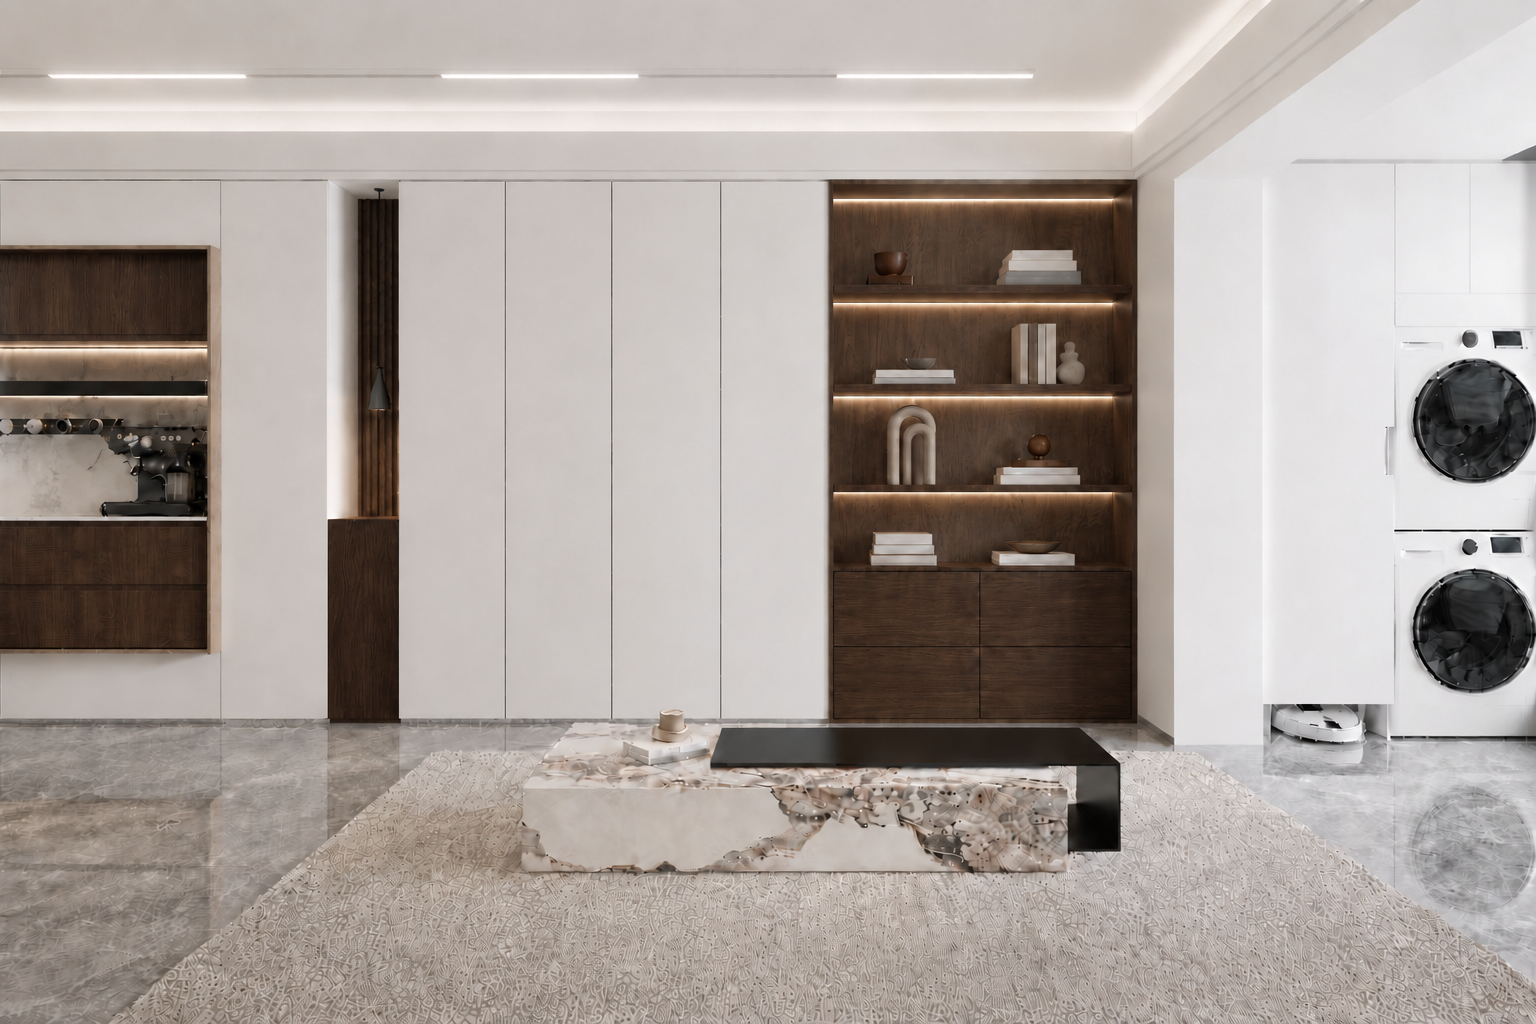
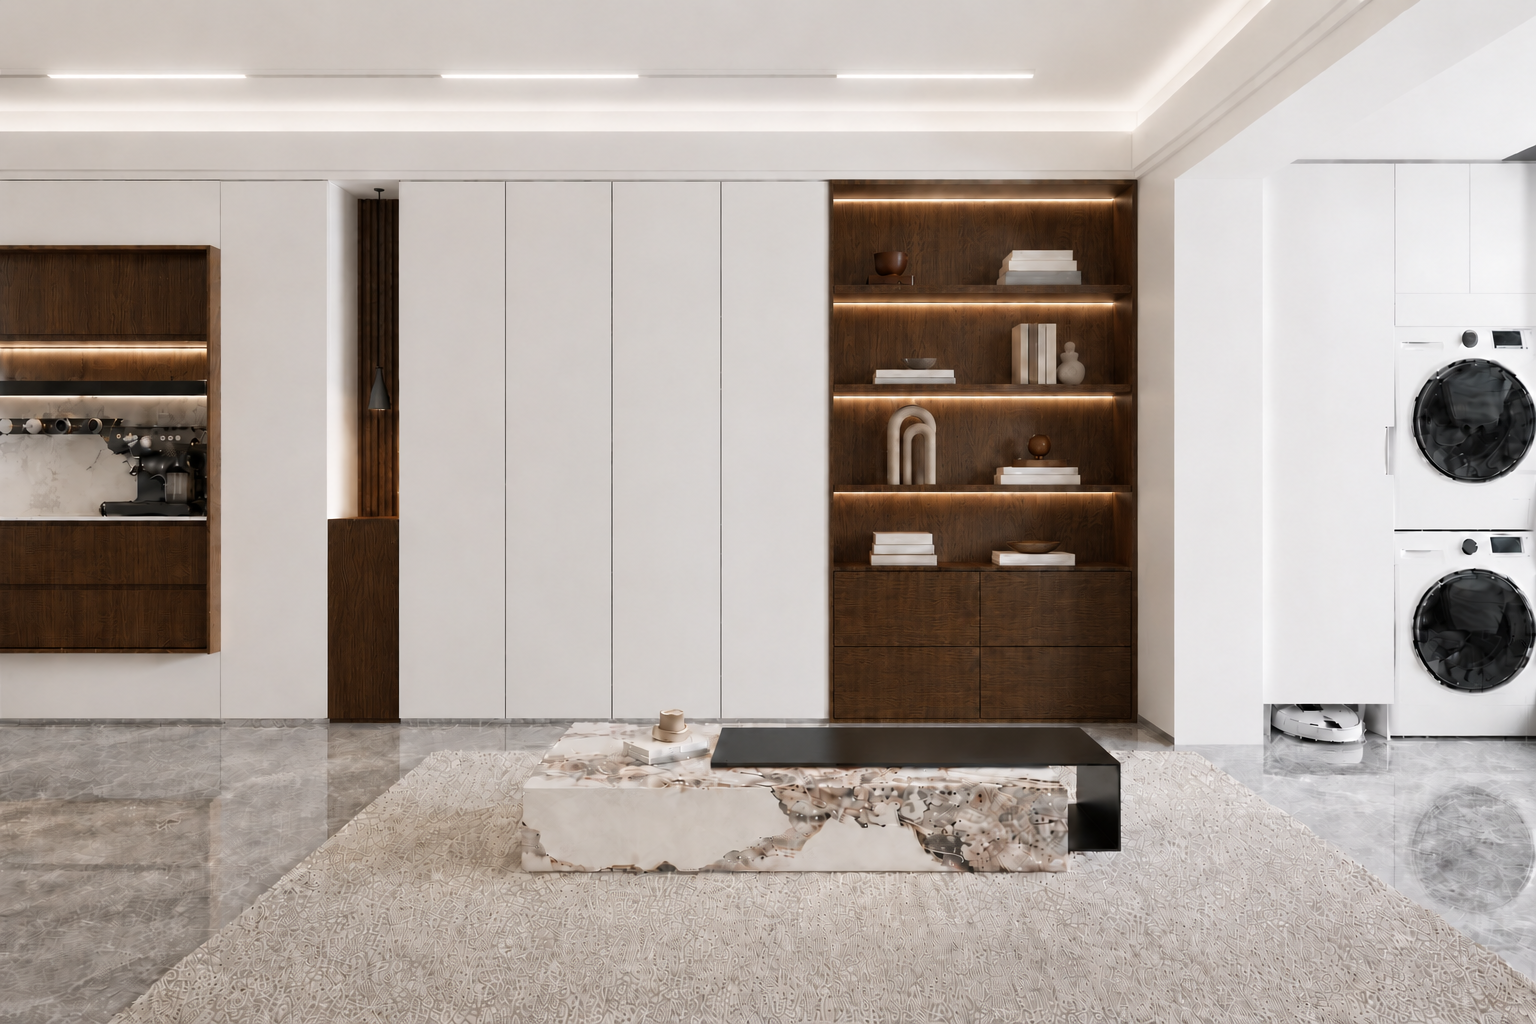
ww0705

diff --git a/tmp/imagegen/create_ls53_wood_only_mask_v2.swift b/tmp/imagegen/create_ls53_wood_only_mask_v2.swift
@@ -1,0 +1,46 @@
+import AppKit
+import Foundation
+
+let width = 1536
+let height = 1024
+let image = NSImage(size: NSSize(width: width, height: height))
+image.lockFocus()
+NSColor.white.setFill()
+NSRect(x: 0, y: 0, width: width, height: height).fill()
+NSColor.clear.setFill()
+
+func rect(_ x: CGFloat, _ yFromTop: CGFloat, _ w: CGFloat, _ h: CGFloat) {
+    NSRect(x: x, y: CGFloat(height) - yFromTop - h, width: w, height: h).fill()
+}
+
+// Left coffee/bar cabinet: only existing light wood veneer, avoid marble backsplash, wine rail, coffee machine.
+rect(0, 236, 214, 80)       // upper wood back/panel
+rect(0, 224, 16, 414)       // left side stile
+rect(202, 224, 16, 414)     // right side stile
+rect(0, 444, 214, 194)      // lower drawer fronts/base
+rect(0, 224, 214, 14)       // top rail
+rect(0, 628, 214, 12)       // bottom rail
+
+// Narrow pendant/slatted feature wood and lower panel.
+rect(318, 176, 51, 214)     // vertical slats
+rect(318, 392, 53, 188)     // lower wood panel
+
+// Right display cabinet: wood frame, shelf boards, and lower drawer fronts only; protect stone back and objects.
+rect(914, 174, 16, 466)     // left stile
+rect(1112, 174, 16, 466)    // right stile
+rect(914, 174, 214, 14)     // top rail
+rect(914, 284, 214, 12)     // shelf board 1
+rect(914, 398, 214, 12)     // shelf board 2
+rect(914, 514, 214, 12)     // shelf board 3
+rect(914, 526, 214, 114)    // lower drawer fronts
+rect(914, 526, 214, 5)      // top drawer reveal
+rect(1019, 526, 8, 114)     // vertical drawer seam area
+
+image.unlockFocus()
+
+guard let tiff = image.tiffRepresentation,
+      let rep = NSBitmapImageRep(data: tiff),
+      let png = rep.representation(using: .png, properties: [:]) else {
+    fatalError("Could not create PNG")
+}
+try png.write(to: URL(fileURLWithPath: "tmp/imagegen/ls53-wood-only-mask-v2.png"))

diff --git a/tmp/imagegen/create_ls53_wood_complete_mask_v3.swift b/tmp/imagegen/create_ls53_wood_complete_mask_v3.swift
@@ -1,0 +1,43 @@
+import AppKit
+import Foundation
+
+let width = 1536
+let height = 1024
+let image = NSImage(size: NSSize(width: width, height: height))
+image.lockFocus()
+NSColor.white.setFill()
+NSRect(x: 0, y: 0, width: width, height: height).fill()
+NSColor.clear.setFill()
+
+func rect(_ x: CGFloat, _ yFromTop: CGFloat, _ w: CGFloat, _ h: CGFloat) {
+    NSRect(x: x, y: CGFloat(height) - yFromTop - h, width: w, height: h).fill()
+}
+
+// Left coffee/bar unit: continuous wood carcass and drawer fields; keep stone backsplash/coffee machine area protected.
+rect(0, 224, 218, 96)       // upper wood panel + top frame
+rect(0, 224, 22, 420)       // left vertical frame
+rect(198, 224, 22, 420)     // right vertical frame
+rect(0, 430, 218, 214)      // lower wood drawer/door block including rails
+rect(0, 620, 218, 24)       // bottom frame / plinth wood face
+
+// Pendant feature: continuous slatted wood niche and lower panel.
+rect(316, 172, 57, 414)
+
+// Right display cabinet: broader continuous wood structure, shelves and lower fronts; stone back remains mostly protected.
+rect(910, 170, 222, 22)     // top wood rail
+rect(910, 170, 24, 474)     // left stile
+rect(1108, 170, 24, 474)    // right stile
+rect(910, 278, 222, 24)     // shelf board 1 incl. front edge
+rect(910, 392, 222, 24)     // shelf board 2 incl. front edge
+rect(910, 506, 222, 24)     // shelf board 3 incl. front edge
+rect(910, 522, 222, 122)    // complete lower drawer/door block
+rect(910, 636, 222, 10)     // lower rail/plinth
+
+image.unlockFocus()
+
+guard let tiff = image.tiffRepresentation,
+      let rep = NSBitmapImageRep(data: tiff),
+      let png = rep.representation(using: .png, properties: [:]) else {
+    fatalError("Could not create PNG")
+}
+try png.write(to: URL(fileURLWithPath: "tmp/imagegen/ls53-wood-complete-mask-v3.png"))

diff --git a/tmp/imagegen/create_ls53_wood_only_mask.swift b/tmp/imagegen/create_ls53_wood_only_mask.swift
@@ -1,0 +1,39 @@
+import AppKit
+import Foundation
+
+let width = 1536
+let height = 1024
+let image = NSImage(size: NSSize(width: width, height: height))
+image.lockFocus()
+NSColor.white.setFill()
+NSRect(x: 0, y: 0, width: width, height: height).fill()
+NSColor.clear.setFill()
+
+func rect(_ x: CGFloat, _ yFromTop: CGFloat, _ w: CGFloat, _ h: CGFloat) {
+    NSRect(x: x, y: CGFloat(height) - yFromTop - h, width: w, height: h).fill()
+}
+
+rect(0, 235, 214, 165)
+rect(0, 408, 214, 230)
+rect(0, 235, 18, 403)
+rect(200, 235, 18, 403)
+rect(317, 175, 52, 220)
+rect(318, 395, 53, 185)
+rect(914, 174, 16, 465)
+rect(1112, 174, 16, 465)
+rect(914, 174, 214, 16)
+rect(914, 286, 214, 12)
+rect(914, 401, 214, 12)
+rect(914, 515, 214, 12)
+rect(914, 527, 214, 112)
+rect(914, 527, 214, 6)
+rect(1019, 527, 8, 112)
+
+image.unlockFocus()
+
+guard let tiff = image.tiffRepresentation,
+      let rep = NSBitmapImageRep(data: tiff),
+      let png = rep.representation(using: .png, properties: [:]) else {
+    fatalError("Could not create PNG")
+}
+try png.write(to: URL(fileURLWithPath: "tmp/imagegen/ls53-wood-only-mask.png"))

diff --git a/whole-home-custom-image/SKILL.md b/whole-home-custom-image/SKILL.md
@@ -144,6 +144,33 @@ image_model = "gpt-image-2"
 
 对于像 `Cleaf LR65` 这类浅暖木纹板，实拍校正通常比编码本身更重要，因为模型很容易退化成“泛浅橡木”。
 
+## 木纹材质还原规则
+
+当用户要求还原某个木纹、板材花色、木饰面或反馈“木纹不真实 / 不高清 / 和实拍差别大”时，按下面流程执行，不要只靠文字描述生成。
+
+1. 必须优先收集实拍参考图：
+   - 尽量让用户提供 1–3 张真实木纹照片或供应商板样截图
+   - 最好同时覆盖近景纹理、整体板面和实际光照环境
+   - 如果有目标色号、板材型号、品牌样板、花色编码，要一起写入提示词
+2. 使用“参考图驱动”而不是纯文字生成：
+   - 把参考图作为材质基准输入给图像模型
+   - 明确要求生成结果贴近参考图的木色、纹理方向、颗粒/孔隙密度、哑光/亮光程度
+   - 不要只写 `walnut`、`oak`、`wood grain` 这类泛化词，否则模型容易生成通用木纹
+3. 先做小样或局部校色：
+   - 优先先生成局部木纹样板、局部柜门或小范围材质替换
+   - 等用户确认颜色、纹理密度、质感后，再扩展到完整空间图或产品图
+4. 明确材质类型和工艺边界：
+   - 在提示词中区分浅橡木、胡桃木、樱桃木、白蜡木、烟熏木、科技木皮、实木多层板、免漆板等
+   - 不同木材和不同板材工艺的纹理规律不同，不要互相套用
+   - 对定制板材饰面，要强调“板材饰面 / 木纹装饰面”的真实尺度，不要过度生成天然原木的大结疤、大山纹
+5. 生成后做二次增强和偏差修正：
+   - 提高清晰度和近看纹理细节
+   - 补充真实木孔、细小纤维、自然色差和微弱层次
+   - 降低 AI 塑料感、糊纹、重复贴图感和过强规律性
+   - 每轮只收敛 1–2 个关键偏差，例如只压暗底色、只增加细纹、只降低红黄偏色
+
+如果用户强调“只改木纹部分，其他布局和颜色不变”，必须使用局部编辑/遮罩思路：只开放木纹区域编辑，锁定白色柜门、墙面、地面、灯光、家电、软装、构图和整体色调。提示词里要反复写明 `edit only the masked wood areas; keep everything else unchanged` 或同等约束。
+
 ## 多轮收敛经验
 
 当用户对“像不像某个板材”不满意时，不要只反复重说同一段 prompt，应该按下面顺序收敛：
